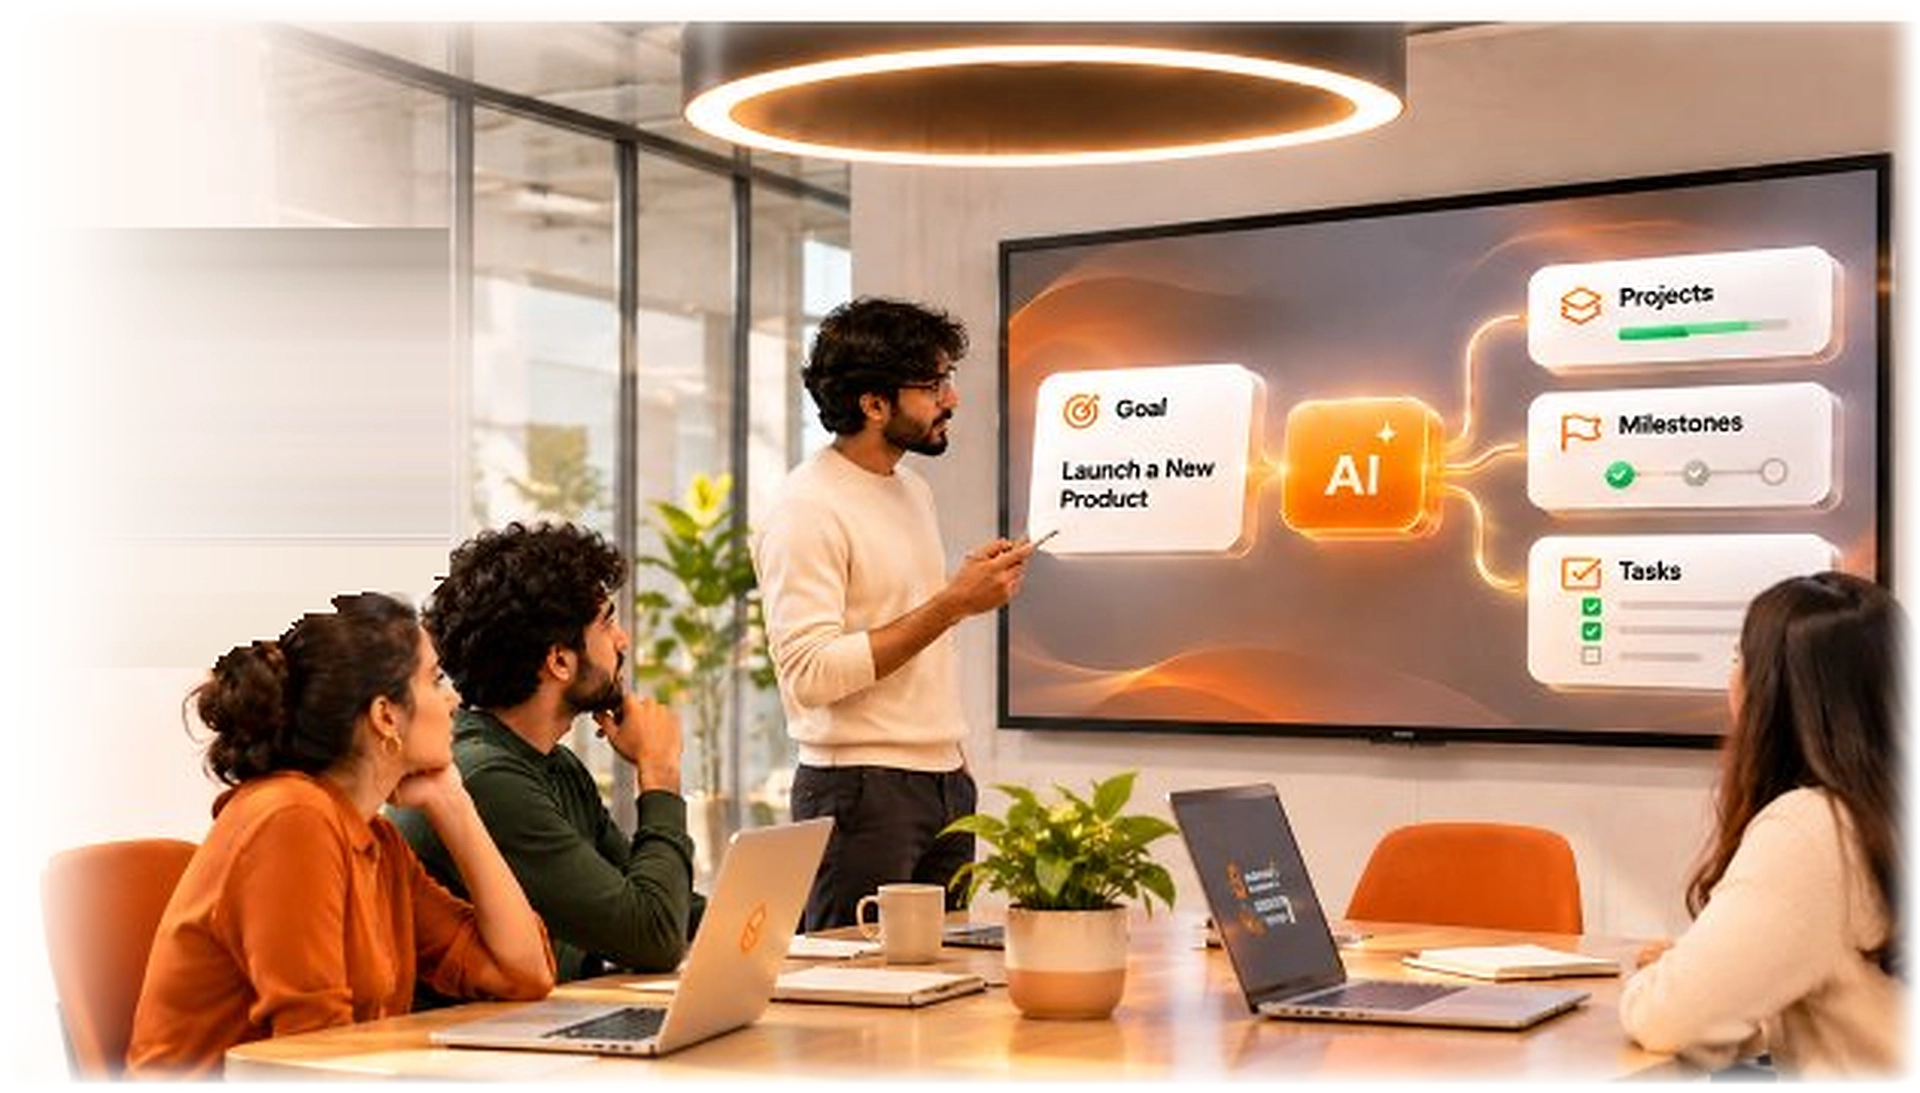
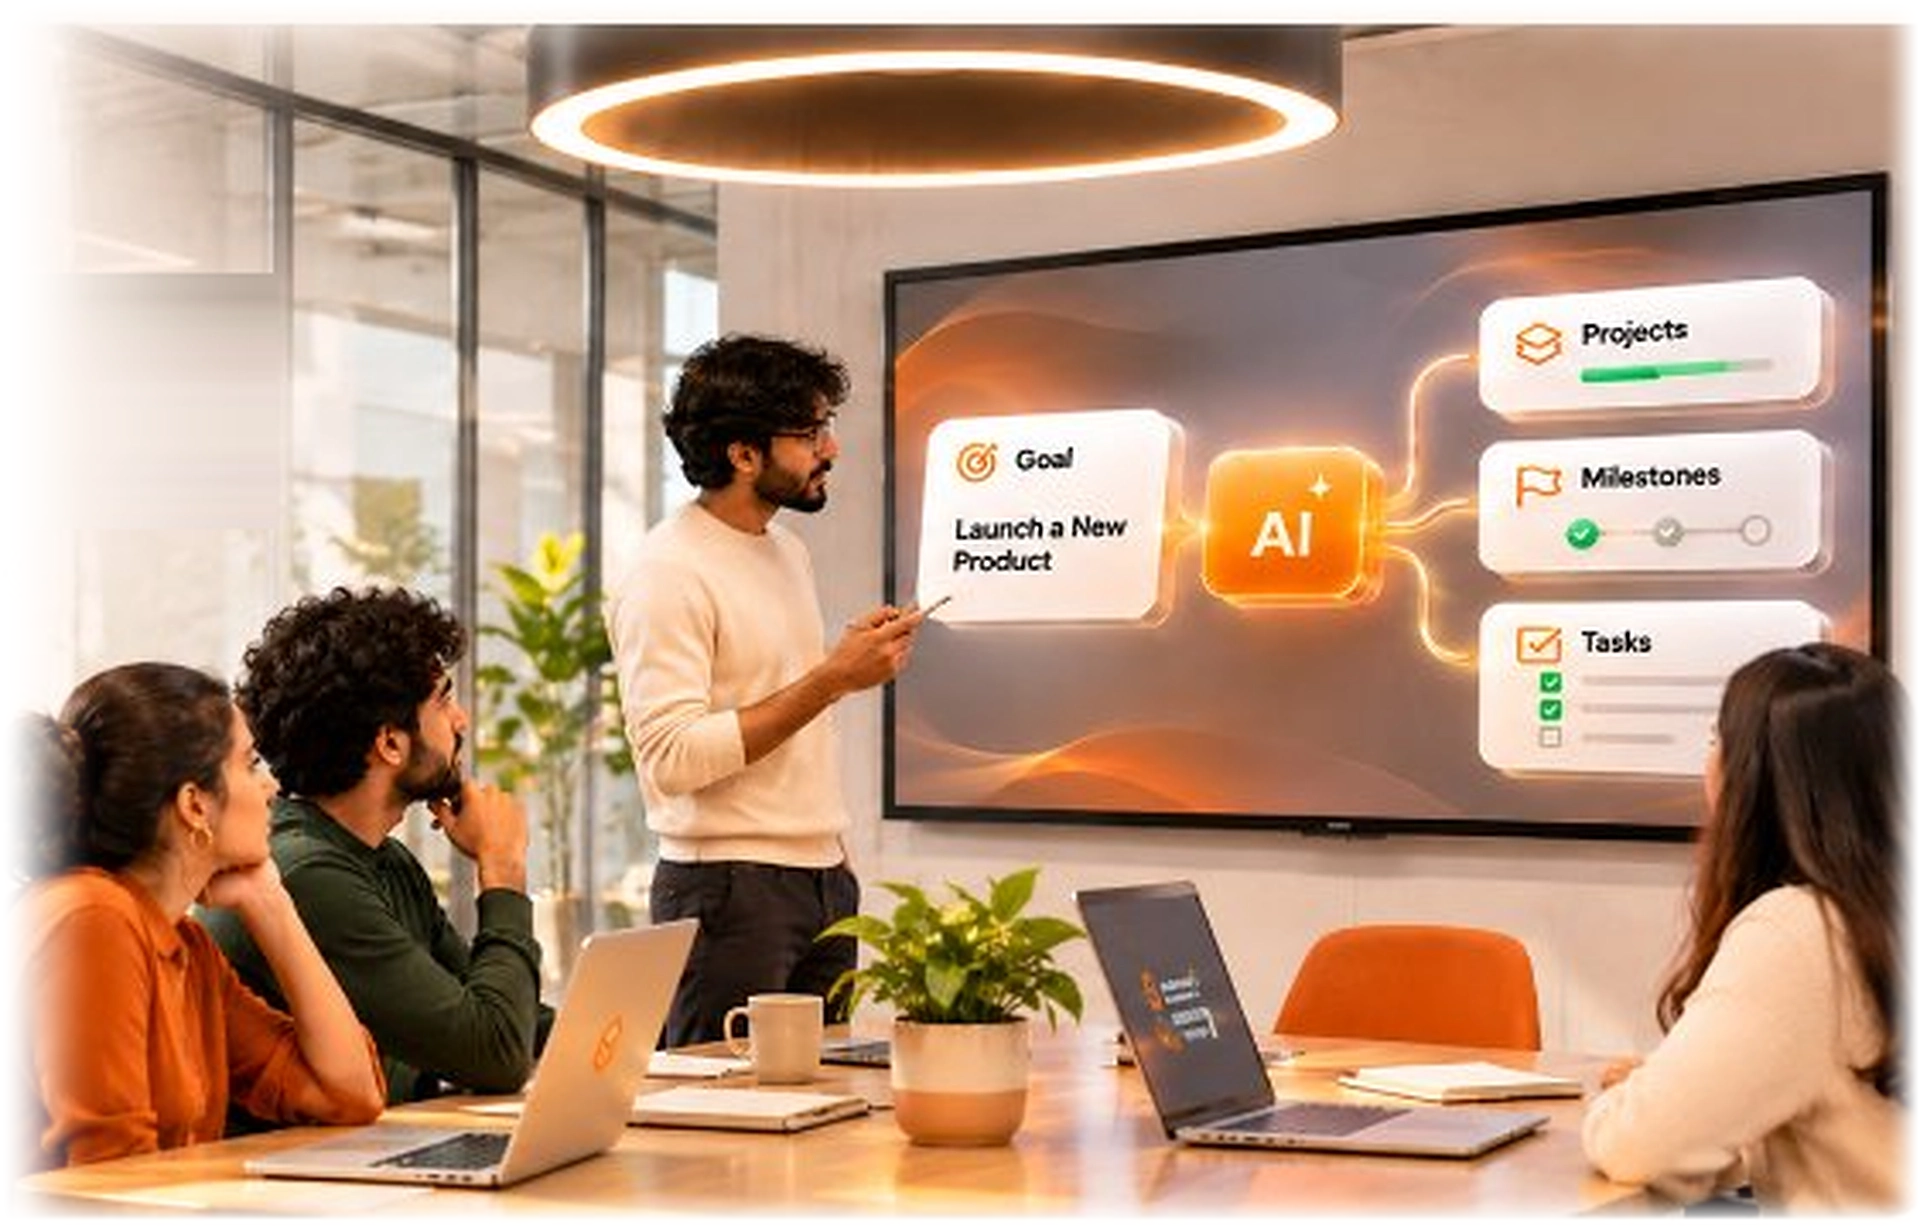
fix(ai-goal): refine hero section image quality, mobile navbar spacing, and remove nested card frame

diff --git a/src/pages/marketing/Features/AIIntelligence.tsx b/src/pages/marketing/Features/AIIntelligence.tsx
@@ -13,7 +13,7 @@ export const AIIntelligence: React.FC = () => {
   }, []);
 
   return (
-    <div className="w-full max-w-[1720px] 2xl:max-w-[1840px] mx-auto px-4 sm:px-6 lg:px-[60px] pt-16 sm:pt-20 lg:pt-20 pb-8 sm:pb-12 flex flex-col space-y-8 sm:space-y-10 selection:bg-brand-orange selection:text-white">
+    <div className="w-full max-w-[1720px] 2xl:max-w-[1840px] mx-auto px-4 sm:px-6 lg:px-[60px] pt-28 sm:pt-32 lg:pt-20 pb-8 sm:pb-12 flex flex-col space-y-8 sm:space-y-10 selection:bg-brand-orange selection:text-white">
       {/* Section Hero Area: Balanced 42:58 layout on desktop, stacked on mobile */}
       <div className="flex flex-col lg:flex-row items-center justify-between gap-6 sm:gap-8 lg:gap-8 xl:gap-12 mb-4 sm:mb-6 lg:mb-8 w-full">
         {/* Left Column: Heading and Supporting Text (42% on desktop) */}
@@ -64,7 +64,7 @@ export const AIIntelligence: React.FC = () => {
               src="/assets/astrav_ai_goal_decomposition_desktop.png"
               alt="Astrav AI Goal Decomposition - Turn a big goal into a clear, executable plan with AI in modern team collaboration"
               width={1920}
-              height={1093}
+              height={1229}
               fetchPriority="high"
               loading="eager"
               decoding="async"

diff --git a/dist/index.html b/dist/index.html
@@ -85,7 +85,7 @@
       .bg-surface-ambient { background-color: #faf6f0; }
       .text-espresso { color: #271812; }
     </style>
-    <script type="module" crossorigin src="/assets/index-D8MLwOr2.js"></script>
+    <script type="module" crossorigin src="/assets/index-Vy2Nfk_y.js"></script>
     <link rel="modulepreload" crossorigin href="/assets/react-vendor-Cl8JyyCr.js">
     <link rel="modulepreload" crossorigin href="/assets/icons-vendor-C2AaqwzH.js">
     <link rel="modulepreload" crossorigin href="/assets/motion-vendor-BrqU43Hn.js">
